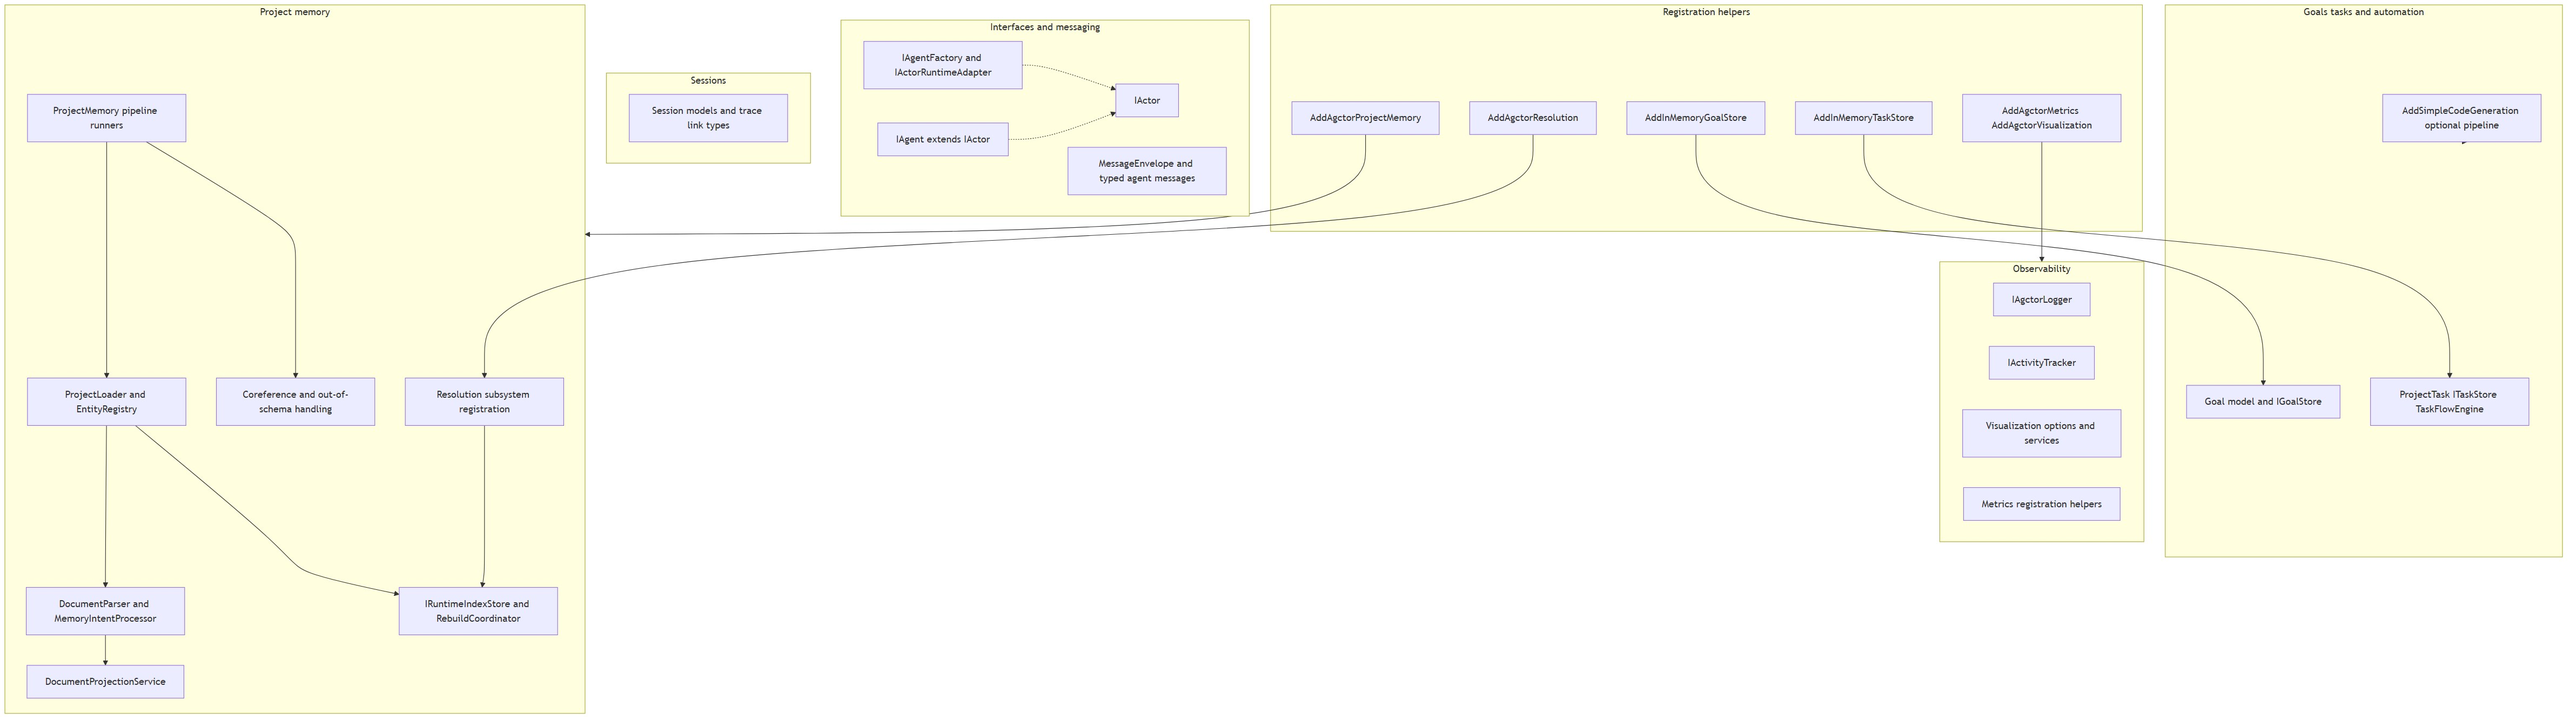
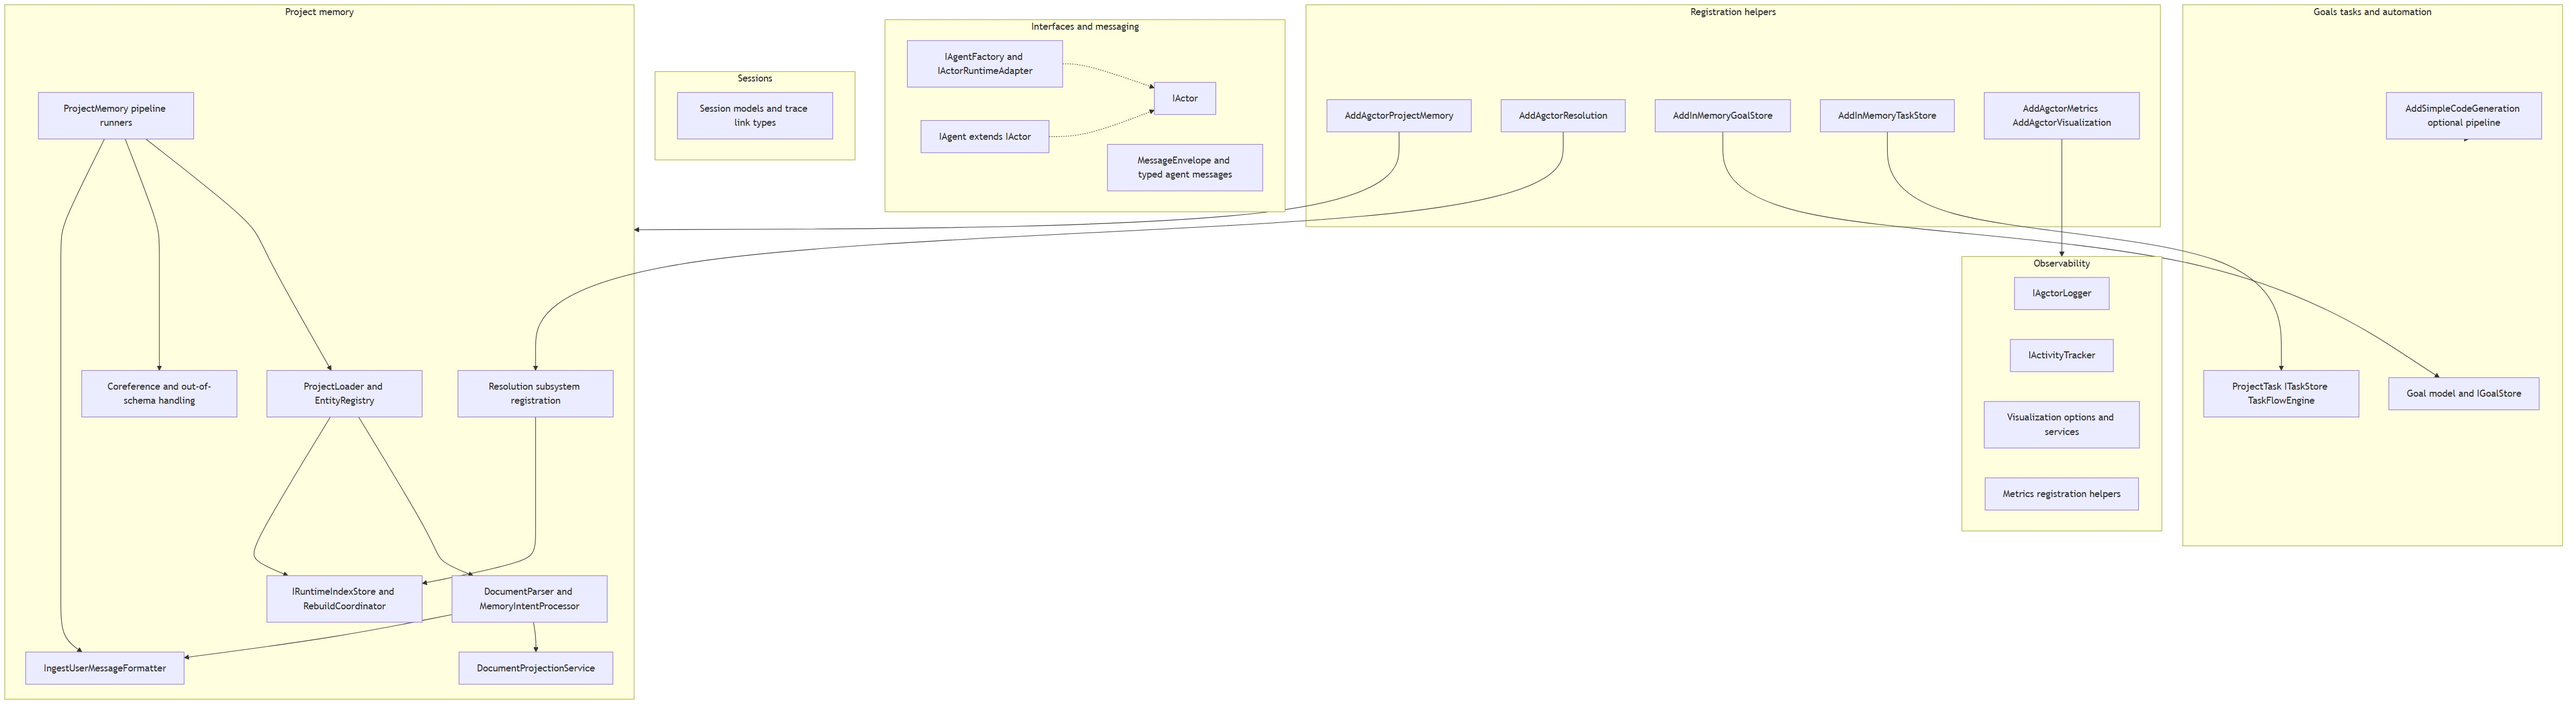
Add ProjectMemory playground & ingest formatter docs
Update docs and diagrams in AgctorSDK.Core and AgctorSDK.Host to document the Project Memory Playground, trace timeline, and the new IngestUserMessageFormatter flow. Adds markdown and mermaid diagram entries showing IngestUserMessageFormatter integration into the ProjectMemory pipeline, SSE playground endpoint behavior (POST /api/project-memory/playground/message/stream) which uses IngestUserMessageFormatter for extract-only flows, and Visualization timeline APIs/DTOs for nested agent/tool events. Also updates class diagrams to list new types (IngestUserMessageFormatter, ProjectMemoryIngestResult, MemoryIntentJson, TraceTimelineEventMapper, PlaygroundTraceTimelineDetail, ProjectMemoryPersonaLlmRunner, ScenarioFlowGraphInterpreter, ScenarioFlowOutputComposer, ProjectMemoryController) and refreshes associated JPEG diagram assets.

diff --git a/AgctorSDK.Host/docs/endpoints-diagram.md b/AgctorSDK.Host/docs/endpoints-diagram.md
@@ -132,10 +132,19 @@ HTTP REST API endpoints and MCP TCP protocol exposed by AgctorSDK.Host.
 | GET | `/api/project-memory/tree` | Project directory tree (JSON) |
 | GET | `/api/project-memory/file?path=` | Preview file under project root |
 | POST | `/api/project-memory/playground/run` | One-shot LLM test (optional `sessionId` for transcript context) |
-| POST | `/api/project-memory/playground/message/stream` | SSE chat turn; persists user/assistant to chat session store |
+| POST | `/api/project-memory/playground/message/stream` | SSE chat turn; scenario flow or single-agent path; persists user/assistant to chat session store. On extract-only flows, **`done.responseData`** uses **`IngestUserMessageFormatter`** (grouped facts + updated paths). Emits `flow_plan`, `flow_step`, `phase`, `llm_delta`, `done`. |
 | POST | `/api/project-memory/orchestrator/run` | Pipeline: extract → route/write → optional query (`mode`: auto, ingestOnly, queryOnly) |
 | POST | `/api/project-memory/generic-inbox/replay` | Replay generic inbox / routing (debug and recovery) |
 | GET | `/api/project-memory/workspace/git-changes` | Git working-tree summary for the configured project root |
+
+### Visualization trace timeline (`/api/Visualization`)
+
+| Method | Path | Description |
+|--------|------|-------------|
+| GET | `/api/Visualization/trace/{traceId}/timeline` | **`TraceTimelineResponse`**: ordered **`TraceTimelineEventDto`** rows with `parentId`, `depth`, `eventKind` (`tool`, `llm`, `ingest`, …), `status`, and optional `timelineDetailJson` (LLM I/O, ingest paths, **`agctor.tool.invoke`**). Consumed by **`TraceTimeline`** view component (nested agent/tool UI). |
+| GET | `/api/Visualization/trace/{traceId}/message-flow` | Message-flow graph for a trace |
+| GET | `/api/Visualization/sessions/{sessionId}/messages/{turnId}/timeline` | Timeline for a historical message |
+| GET | `/api/Visualization/sessions/{sessionId}/turns/{turnId}/timeline` | Timeline for a historical turn |
 
 ### Entity resolution review (`/api/project-memory/resolution`) — PRD-018
 | Method | Path | Description |

diff --git a/AgctorSDK.Host/docs/class-diagram.md b/AgctorSDK.Host/docs/class-diagram.md
@@ -37,7 +37,16 @@ Razor **ViewComponents** under `ViewComponents/` render the CodeGraph dashboard 
 
 - **EmbeddingStoreViewComponent**, **AgentChatViewComponent**, **ActorTreeViewComponent** (includes file preview modal markup), **TraceTimelineViewComponent**, **EmbeddingDebugViewComponent**, **RawJsonViewComponent**
 
-Client orchestration for the page lives in **`wwwroot/js/dashboard/codegraph-page.js`** (stable element `id`s match the component partials).
+The **Project Memory Playground** page (`/Dashboard/ProjectMemory/Playground`) reuses **TraceTimelineViewComponent** and loads timelines via **VisualizationController**. UI logic in **`TraceTimeline/Default.cshtml`** nests tool spans under agent runs; **`TraceTimelineEventMapper`** adds `eventKind`, `status`, and `parentId` for the tree.
+
+Playground orchestration types under **`Services/ProjectMemory/`** and **`Services/Scenarios/`**:
+
+- **ProjectMemoryController** — SSE playground stream, ingest side-effects, **`IngestUserMessageFormatter`** final reply when extract-only
+- **ScenarioFlowGraphInterpreter** / **ScenarioFlowOutputComposer** — scenario graph execution and merge policies
+- **PlaygroundTraceTimelineDetail** — structured `timelineDetailJson` for persona, ingest, persist, and tool spans
+- **ProjectMemoryPersonaLlmRunner** — prompt envelope and ingest footer helpers
+
+Client orchestration for the page lives in **`wwwroot/js/dashboard/project-memory-playground.js`**.
 
 The **Agents** dashboard page uses **`wwwroot/js/dashboard/agents-page.js`** (PRD-010): loads **`/api/agents/definitions/tool-usage`** for the tool-access card grid, runtime chips, definitions column, and C# drawer.
 

diff --git a/AgctorSDK.Host/docs/architecture-diagram.md b/AgctorSDK.Host/docs/architecture-diagram.md
@@ -27,6 +27,12 @@ AgctorSDK.Host is the HTTP and MCP gateway for the AGCTOR runtime.
 - **ChatProjectsController**, **ChatSessionsController**
 - **ProjectMemoryController** (`/api/project-memory`), **ResolutionReviewController** (`/api/project-memory/resolution`)
 
+### Project Memory Playground and trace timeline
+
+- **`POST /api/project-memory/playground/message/stream`**: SSE turn runner for scenario flows (router → persona LLM nodes → merge/output). After **person-extractor** ingest, the final assistant text uses **`IngestUserMessageFormatter`** (Core) when only extract/curator personas ran—listing saved facts by person instead of bare curator prose.
+- **`TraceTimelineViewComponent`** (`Pages/Shared/Components/TraceTimeline/`): Gantt chart + event cards loaded from **`GET /api/Visualization/trace/{traceId}/timeline`**. Tools and actor receive steps **nest under parent LLM/agent runs** (tree connector + emerald tool strip). Span metadata comes from **`TraceTimelineEventMapper`** and optional `timelineDetailJson` (including `agctor.tool.invoke` for tool drill-down).
+- **Activity nesting**: Context tools invoked inside the **`pm.playground.persona-llm`** activity scope so trace `parentId` links tools to the agent run that used them.
+
 ### MCP Protocol
 - **McpListener**: TCP server on `Mcp:Port` (default **8080**, configurable including `0` for ephemeral) routing JSON messages through **MessageDispatcher**
 

diff --git a/AgctorSDK.Host/docs/README.md b/AgctorSDK.Host/docs/README.md
@@ -14,6 +14,13 @@ A read-only configuration dashboard is available at **/Dashboard** (Razor Pages 
 
 See [endpoints-diagram](./endpoints-diagram.md) for the full API including dashboard endpoints.
 
+## Project Memory Playground (`/Dashboard/ProjectMemory/Playground`)
+
+- **Streaming chat** via `POST /api/project-memory/playground/message/stream` (SSE: `flow_plan`, `flow_step`, `phase`, `llm_delta`, `done`).
+- **Scenario flows** (PRD-014): router modes, branch execution (`parallel` / `sequential` / `auto`), merge **outputPolicy** (`ranked`, `merge_sections`, `first_non_empty`).
+- **Extract replies**: after successful ingest, users see grouped facts from **`IngestUserMessageFormatter`** (see Core docs)—not only a single markdown path.
+- **Trace panel**: shared **`TraceTimeline`** component; nested agent/tool rows, tool summary chips, and drill-down for LLM I/O and tool parameters. Client: `wwwroot/js/dashboard/project-memory-playground.js`.
+
 ## Generating Images
 
 ```bash

diff --git a/AgctorSDK.Core/docs/architecture-diagram.md b/AgctorSDK.Core/docs/architecture-diagram.md
@@ -16,6 +16,10 @@
 
 AgctorSDK.Core is the foundational library defining all core interfaces, message types, task/goal management, timeout supervision, observability, and utility services for the Agctor framework. It also implements **PRD-013 project memory**: file-canonical `.agctor` packages, YAML schemas, memory intents, markdown projection, and rebuildable SQLite/Postgres indexes (`ProjectMemory` namespace).
 
+### Ingest user messaging
+
+After **person-extractor** JSON is applied to disk, **`IngestUserMessageFormatter`** (in `ProjectMemory/Orchestration/`) builds a **human-readable chat summary**: facts grouped by person with readable labels (Skill, Occupation, Name, …), optional **Updated files** paths, and a **Needs your confirmation** section for out-of-schema proposals. The Host playground calls this when an extract-only scenario turn completes so users see what was saved—not only a bare file path from the curator LLM.
+
 ## Key Components
 
 ### Interfaces

diff --git a/AgctorSDK.Core/docs/class-diagram.md b/AgctorSDK.Core/docs/class-diagram.md
@@ -20,6 +20,7 @@ UML class diagram for AgctorSDK.Core showing all core interfaces, their relation
 - **Messaging**: IMessageEnvelope, MessageEnvelope
 - **Tasks**: ITaskStore, ITaskExecutor, TaskFlowEngine, ProjectTask
 - **Goals**: IGoalStore, Goal
+- **Project memory**: IProjectMemoryPipelineRunner, ProjectMemoryIngestResult, MemoryIntentJson, **IngestUserMessageFormatter** (playground/API ingest summaries)
 - **Timeout**: ITimeoutSupervisor, ITimeoutPolicy
 - **Observability**: IMetricsCollector, IActivityTracker, IVisualizationService
 - **Code Generation**: ICodeGenerator
